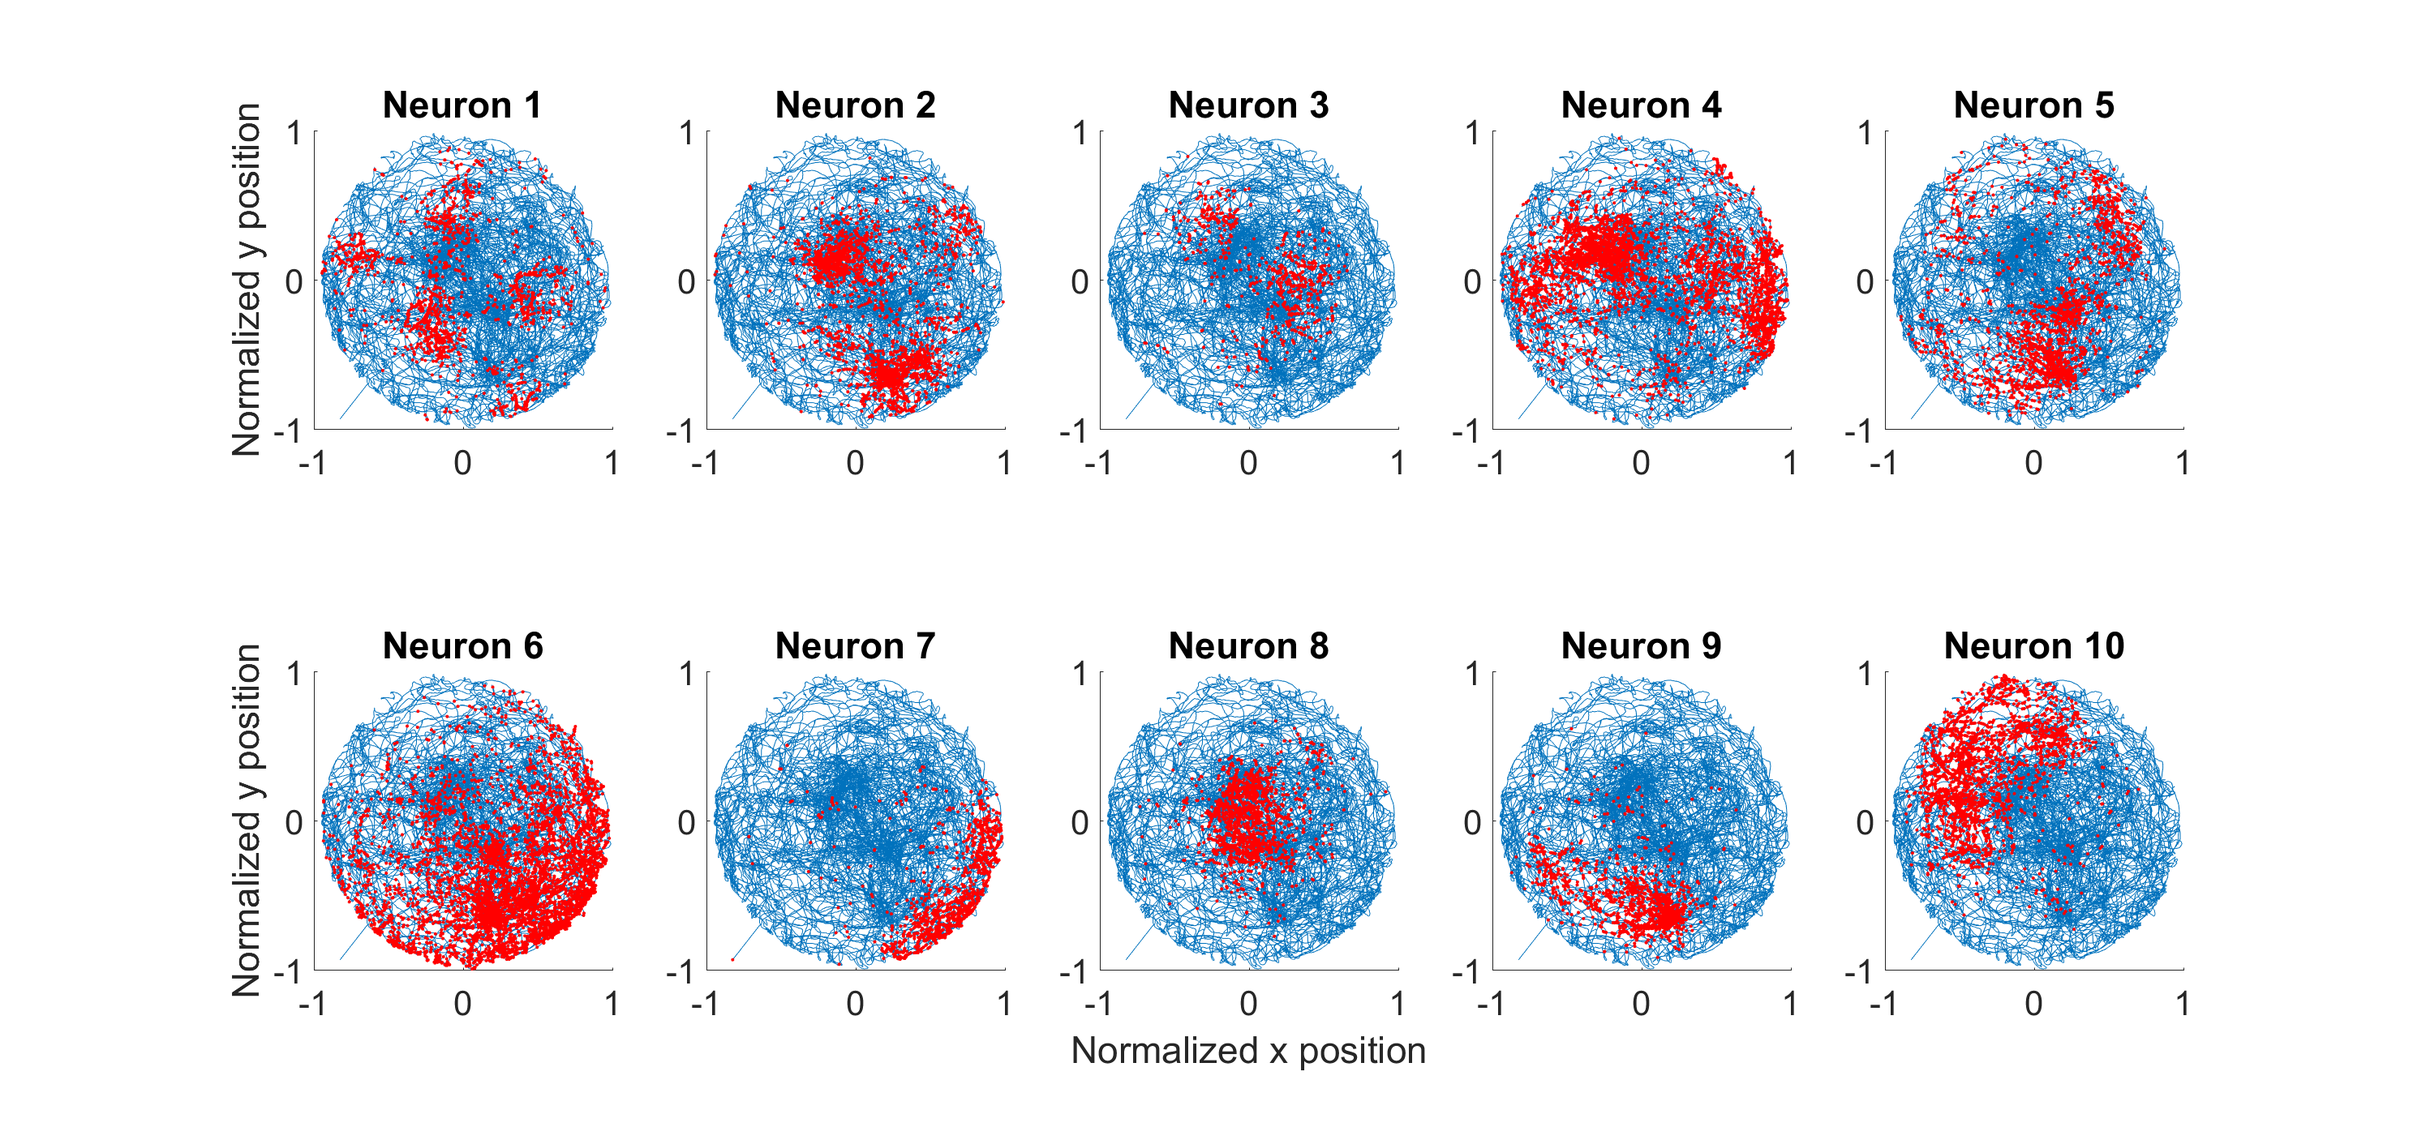
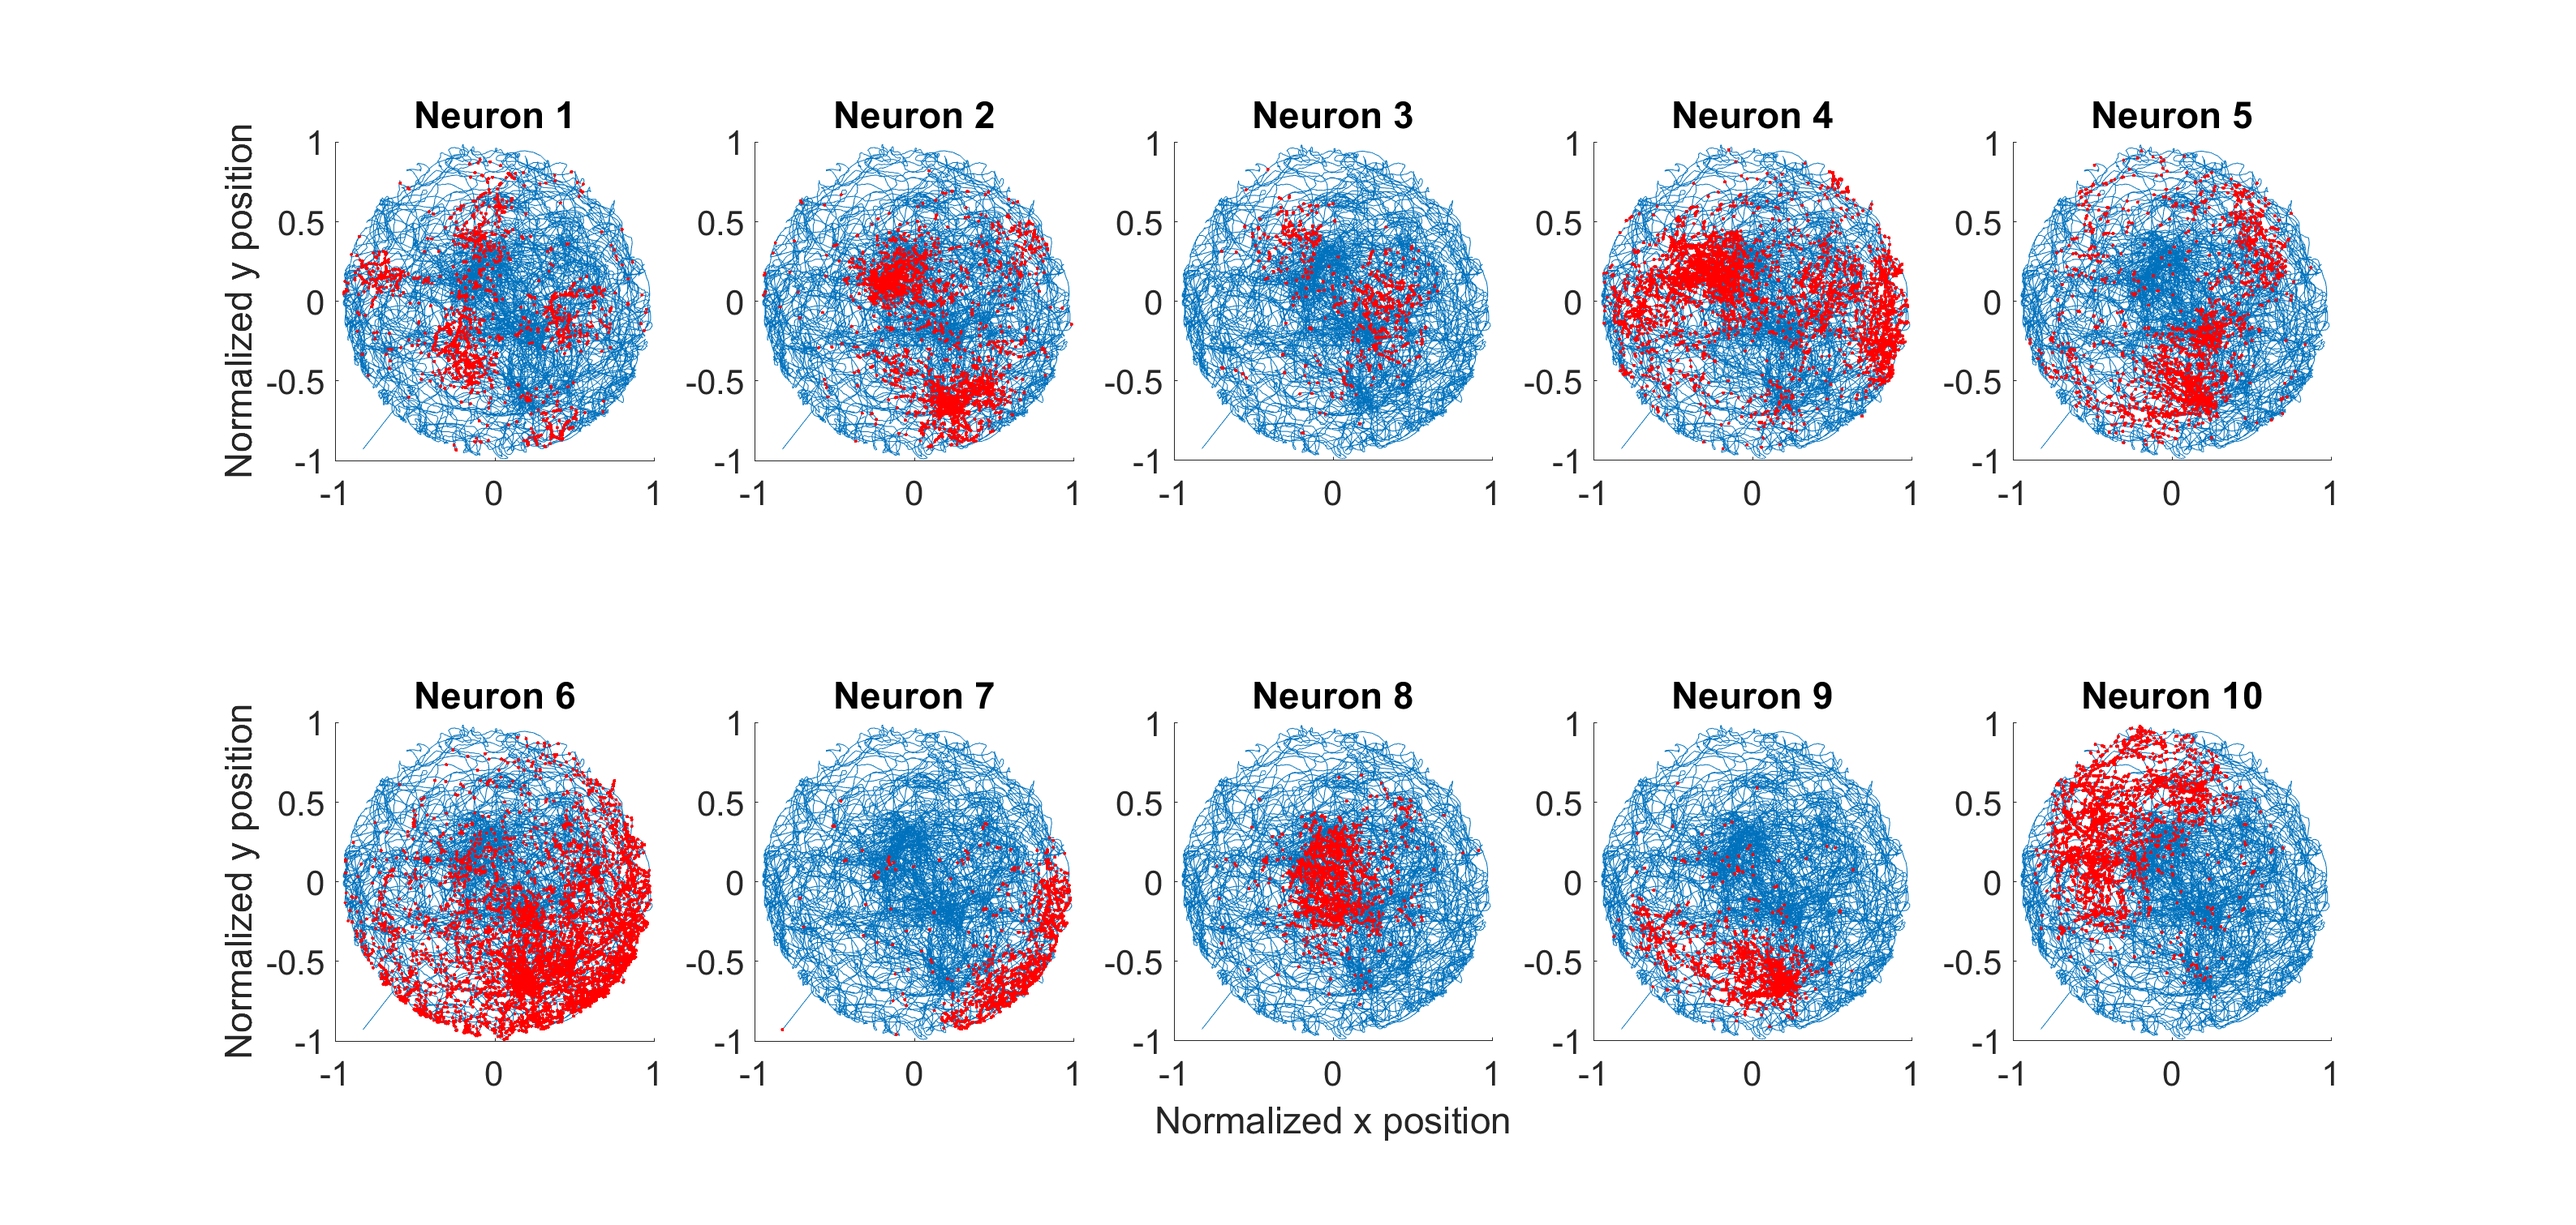
plot bargraphs for KS statistic and AIC

diff --git a/encoding.m b/encoding.m
@@ -68,6 +68,7 @@ for i = neurons
     %% DEFINE MODELS
     % Model 1: neuron 6
     hist = [4:15 96:109 140:146];
+    hist = [4];
     [spike{i,1},covar{i,1}] = hist_dep(hist,spikes,xN,yN,xN.^2,yN.^2,xN.*yN,vyN,phi);
     [b{i,1},dev{i,1},stats{i,1}] = glmfit(covar{i,1},spike{i,1},'poisson');
     lambda{i,1} = gen_lambda(b{i,1},covar{i,1});
@@ -83,6 +84,7 @@ for i = neurons
     
     % Model 2: unimodal place cells 1-5
     hist = [3:29 88:138];
+    hist = [3];
     [spike{i,2},covar{i,2}] = hist_dep(hist,spikes,xN,yN,xN.^2,yN.^2,xN.*yN,vxN,r,phi.^2);
     [b{i,2},dev{i,2},stats{i,2}] = glmfit(covar{i,2},spike{i,2},'poisson');
     lambda{i,2} = gen_lambda(b{i,2},covar{i,2});
@@ -98,6 +100,7 @@ for i = neurons
     
     % Model 3: multimodal place cell 7-10
     hist = [4:30 96:146];
+    hist = [4];
     [spike{i,3},covar{i,3}] = hist_dep(hist,spikes,xN,yN,xN.^2,yN.^2,xN.*yN,r,phi);
     [b{i,3},dev{i,3},stats{i,3}] = glmfit(covar{i,3},spike{i,3},'poisson');
     lambda{i,3} = gen_lambda(b{i,3},covar{i,3});
@@ -115,13 +118,19 @@ for i = neurons
     
 end
 
+%% EVALUATE MODELS
+
+ks_store = zeros(length(neurons),num_model);
+AIC_store = zeros(length(neurons),num_model);
+
 for i = neurons
     disp(['Plotting neuron ' num2str(i) ' ...'])
     
-    %% EVALUATE MODELS
-    
     figure('units','normalized','outerposition',[0 0.035 1 0.92]);
     suptitle(['Cell ' num2str(i)]);
+    
+    bottom = min(min(min(min(lambda_grid{i,1})),min(min(lambda_grid{i,2}))),min(min(lambda_grid{i,3})));
+    top  = max(max(max(max(lambda_grid{i,1})),max(max(lambda_grid{i,2}))),max(max(lambda_grid{i,3})));
 
     % Model subplots w/beta subplots below
     for j = 1:num_model
@@ -137,6 +146,10 @@ for i = neurons
         set(h_mesh,'AlphaData',0);
         hold on;
         plot3(cos(-pi:1e-2:pi),sin(-pi:1e-2:pi),zeros(size(-pi:1e-2:pi)));
+        caxis manual
+        caxis([bottom top]);
+        colorbar;
+
         xlabel('x position [m]'); ylabel('y position [m]');
         set(gca,'FontSize',16)
         
@@ -145,7 +158,7 @@ for i = neurons
         errorbar(b{i,j},2*stats{i,j}.se);
         xticks(1:length(b{i,j}));
         xlim([0 length(b{i,j})+1]);
-        xticks(0:10:length(b{i,j}));
+        if length(b{i,j})>20    xticks(0:10:length(b{i,j}));    end
         xlabel('\beta number'); ylabel('\beta value');
         set(gca,'FontSize',16)
         
@@ -166,14 +179,59 @@ for i = neurons
     ks_b{1} = b{i,1};
     ks_b{2} = b{i,2};
     ks_b{3} = b{i,3};
-    plot_ks(ks_spikes,ks_lambda,ks_b,ks_dev);
+    
+    [KS_stat, AIC_stat] = plot_ks(ks_spikes,ks_lambda,ks_b,ks_dev);
+    ks_store(i,1) = KS_stat(1);
+    ks_store(i,2) = KS_stat(2);
+    ks_store(i,3) = KS_stat(3);
+    AIC_store(i,1) = AIC_stat(1);
+    AIC_store(i,2) = AIC_stat(2);
+    AIC_store(i,3) = AIC_stat(3);
+    
     cur_title = get(gca, 'Title');
     title([cur_title.String ': neuron ' num2str(i)]);
     
-    set(gca,'FontSize',16)
+    set(gca,'FontSize',14)
     saveas(gcf, [date '-KS-neuron_' num2str(i) '.png'])
 end
-    
+
+figure();
+bar(ks_store');
+xticklabels({'Model 1', 'Model 2', 'Model 3'})
+ylabel('KS statistic');
+
+figure();
+set(gcf,'units','points','position',[100,100,1000,400])
+subplot(1,2,1);
+bar(AIC_store);
+xlim([0 11])
+ylabel('AIC');
+xlabel('Neuron');
+
+subplot(1,2,2);
+
+AIC_mm = AIC_store(1:5,:);
+AIC_six = AIC_store(6,:);
+AIC_um = AIC_store(7:10,:);
+
+AIC_means = [mean(AIC_mm,1);...
+             mean(AIC_six,1);...
+             mean(AIC_um,1)]
+AIC_std = [std(AIC_mm,1);...
+           [0, 0, 0];...
+           std(AIC_um,1)]         
+ctrs = 1:3       
+hBar = bar(ctrs,AIC_means);
+
+for k1 = 1:size(AIC_means,2)
+    ctr(k1,:) = bsxfun(@plus, hBar(1).XData, [hBar(k1).XOffset]');
+    ydt(k1,:) = hBar(k1).YData;
+end
+hold on
+errorbar(ctr, ydt, AIC_std', '.r')
+xticklabels({'Multimodal', 'Neuron 6', 'Unimodal'});
+ylabel('AIC');
+
     %% was commented out before
 %     for n=1:numel(b3)
 %         plot(n,b3(n),'*','DisplayName',num2str(stats3.p(n)));

diff --git a/plot_ks.m b/plot_ks.m
@@ -17,10 +17,13 @@
 % Function by: Lim Jing Xuan
 % % % % % % % % % % % % % % % % % % % % % % % % % % % % % % % % % % % % % %
 
-function plot_ks(spikess, lambdaEsts, bs, devs)
+function [KS_stat, AIC_stat] = plot_ks(spikess, lambdaEsts, bs, devs)
 
 figure(); clf; hold on;
 h = [];
+
+KS_stat = zeros(size(devs));
+AIC_stat = zeros(size(devs));
 
 for i=1:numel(lambdaEsts)
     disp(['Model: ' num2str(i)])
@@ -49,7 +52,9 @@ for i=1:numel(lambdaEsts)
     
     % plot KS plots
     ks_stat = max(abs(KSSorted - ([1:N]-.5)/N));
+    KS_stat(i) = ks_stat;
     AIC = dev+2*length(b);
+    AIC_stat(i) = AIC;
     h(i) = plot(([1:N]-.5)/N, KSSorted,...
             'DisplayName', ['KS = ' num2str(ks_stat) '; AIC = ' num2str(AIC)]);
     

diff --git a/analyse_glmout.m b/analyse_glmout.m
@@ -11,7 +11,8 @@ clr;
 % 171130-glm_out-neuron_8.mat
 % 171130-glm_out-neuron_9.mat
 % 171130-glm_out-neuron_10.mat
-load('glm_out-neuron_1');
+datafile = 'glm_out-neuron_1'
+load(datafile);
 
 %% plot betas
 figure(1); clf; hold on;
@@ -44,6 +45,8 @@ xlim([0 length(stats3.p)]);
 ylabel('p-values'); xlabel('covariate number');
 set(gca,'FontSize',16)
 
+saveas(gcf, [datafile 'betas.png'])
+
 %%  find stretches of significant covariates
 figure(2); clf; hold on;
 set(gcf,'units','points','position',[100,100,1000,400])
@@ -75,3 +78,5 @@ for i=1:numel(stretch_indexes)
 
     hist_dep = covar_index - 5
 end
+
+saveas(gcf, [datafile 'stretch.png'])
